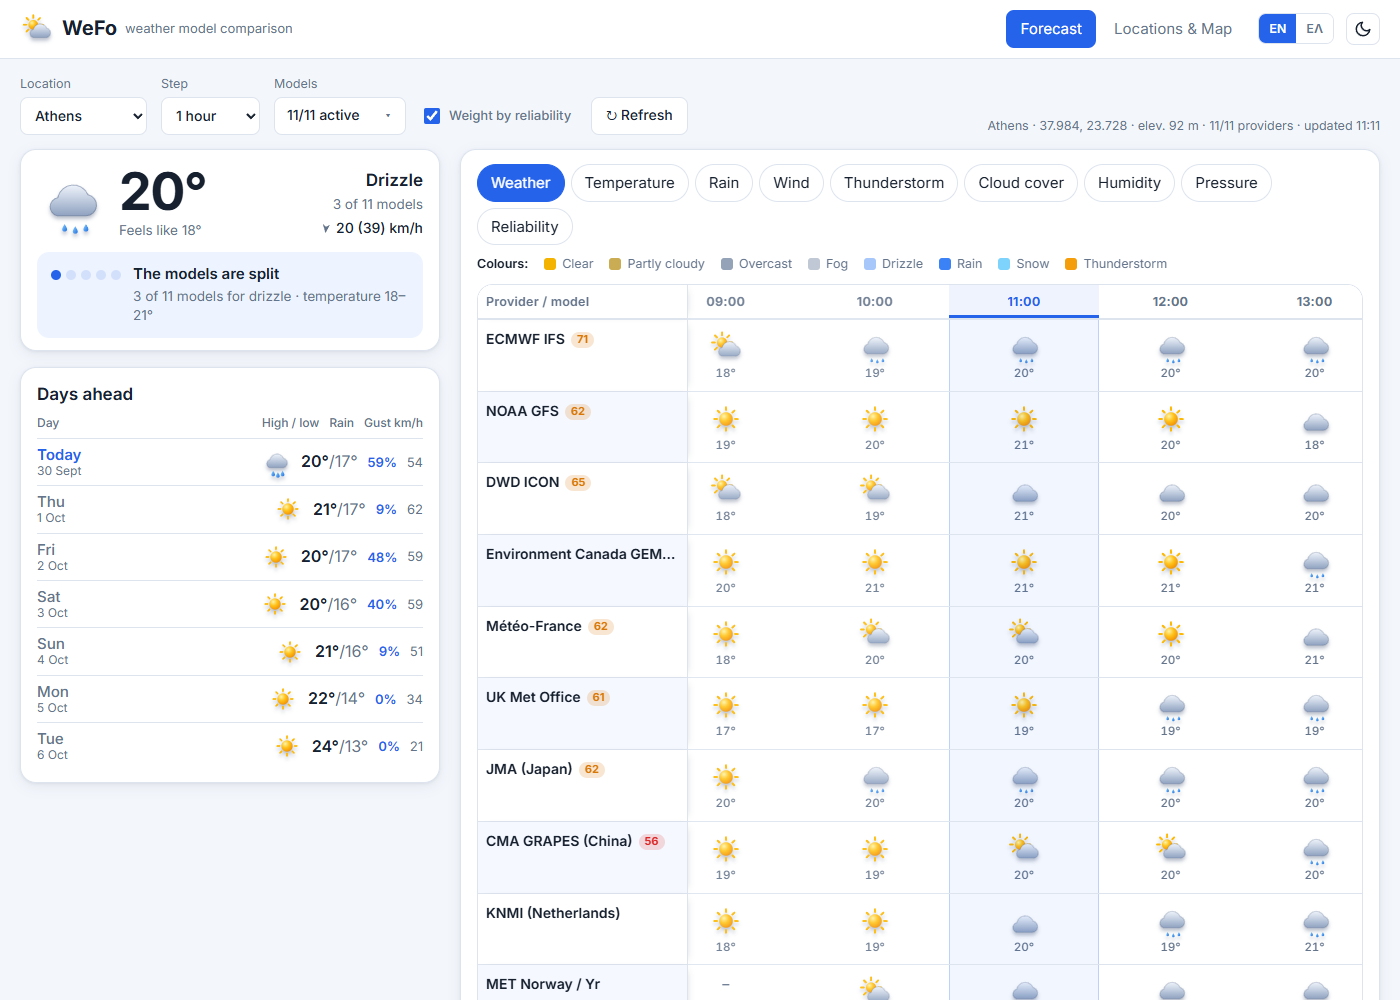
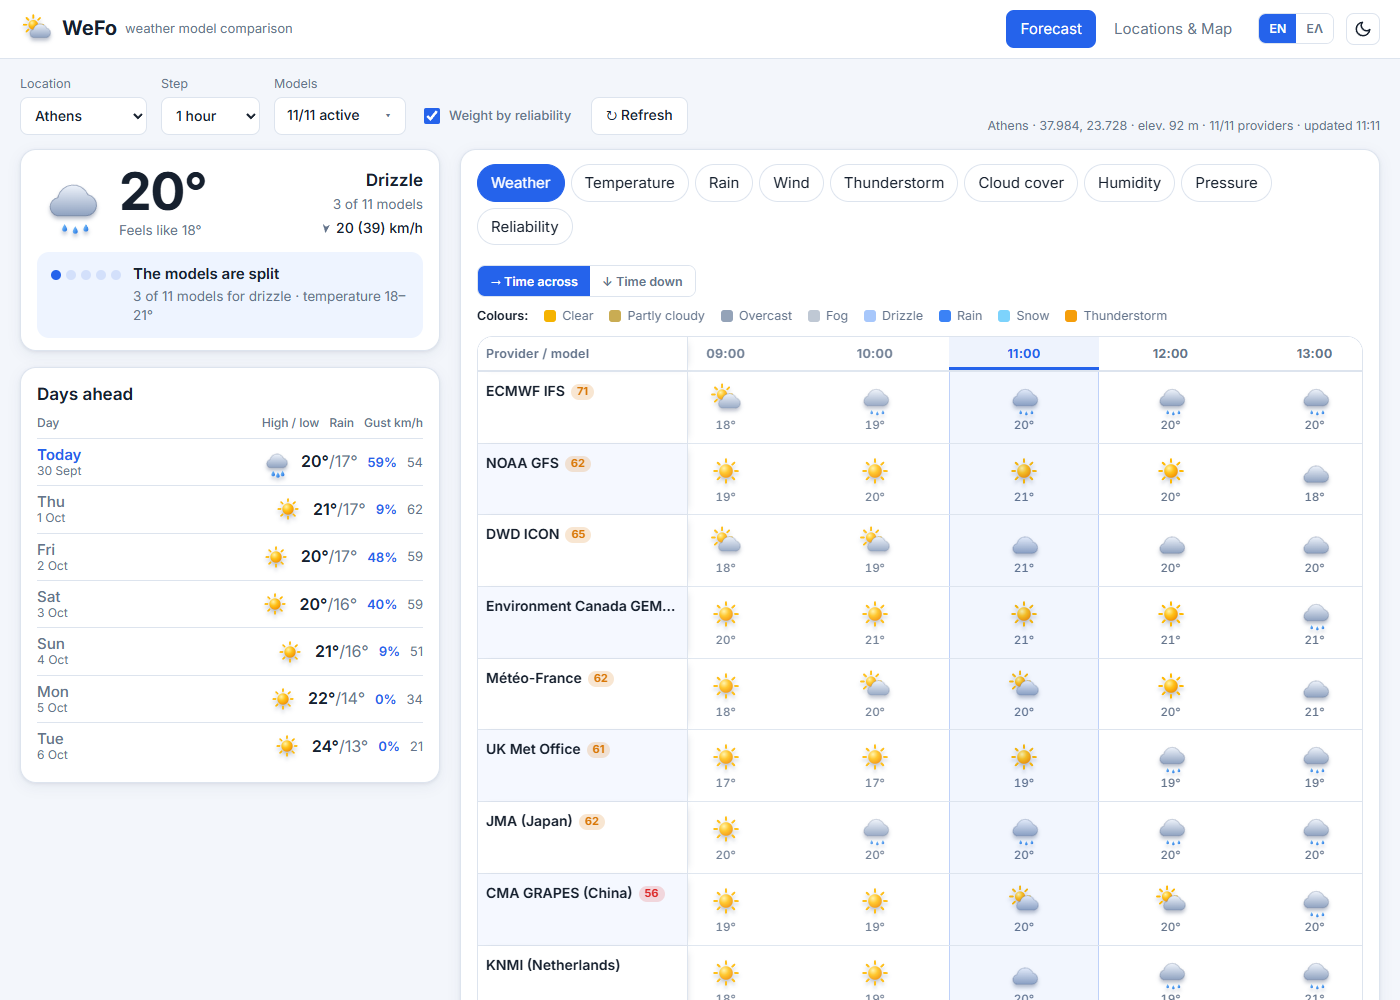
Add Time down/across table orientation toggle and consensus-first collapsible provider rows (Show all N models)

diff --git a/js/app.js b/js/app.js
@@ -15,8 +15,10 @@ async function api(path, opts) {
   return data;
 }
 
-const state = { locations: [], current: null, data: null, verify: null, weighted: true, day: 0, step: 1, param: 'weather', token: 0 };
+const state = { locations: [], current: null, data: null, verify: null, weighted: true, day: 0, step: 1, param: 'weather', token: 0, orient: 'h', modelsOpen: false };
 try { state.weighted = localStorage.getItem('wefo.weighted') !== '0'; } catch (e) { /* ignore */ }
+try { state.orient = localStorage.getItem('wefo.orient') === 'v' ? 'v' : 'h'; } catch (e) { /* ignore */ }
+try { state.modelsOpen = localStorage.getItem('wefo.modelsOpen') === '1'; } catch (e) { /* ignore */ }
 // Προτιμήσεις ανά χρήστη/browser (localStorage): μοντέλα που έχουν απενεργοποιηθεί
 state.disabled = new Set();
 try { state.disabled = new Set(JSON.parse(localStorage.getItem('wefo.disabled') || '[]')); } catch (e) { /* ignore */ }
@@ -374,27 +376,70 @@ function renderSegKey() {
   $('segKey').innerHTML = `<b>${t('lg.colours')}</b>` + cats.map((k) => `<span><i class="c-${k}"></i>${t('cat.' + k)}</span>`).join('');
 }
 
-function renderGrid() {
-  const { data, param } = state;
-  $('relNote').hidden = param !== 'reliability';
-  renderSegKey();
-  if (param === 'reliability') return renderReliability();
-  const cols = columns();
-  const { rows, summary, prob, summaryLabel, probLabel, extraRows } = buildRows(param, cols);
+/* "Time down": one row per hour, showing just the consensus (average + probability) for the current
+   tab — transposed from the usual "time across" table. Individual providers don't fit as columns here,
+   so this view is always the compact, consensus-only one (see "Show all N models" for the per-provider
+   breakdown, which stays in "time across" mode). */
+function renderGridVertical(cols, built) {
+  const { summary, prob, summaryLabel, probLabel } = built;
   const cls = (c) => `${c.past ? 'past' : ''}${c.now ? ' now' : ''}`;
-  const rowHtml = (r, extraCls = '') => `<tr class="${extraCls}"><th class="rowh">${esc(r.name)}${badge(r.id)}</th>${r.cells.map((c, i) => `<td class="${c.cls || ''} ${cls(cols[i])}" style="background:${c.bg || ''}">${c.html}</td>`).join('')}</tr>`;
-  let html = `<thead><tr><th class="rowh">${t('g.provider')}</th>${cols.map((c) => `<th class="${cls(c)}">${c.label}</th>`).join('')}</tr></thead><tbody>`;
-  rows.forEach((r) => { html += rowHtml(r); });
-  html += `<tr class="summary"><th class="rowh">${summaryLabel}</th>${summary.map((c, i) => `<td class="${cls(cols[i])}" style="background:${c.bg || ''}">${c.html}</td>`).join('')}</tr>`;
-  html += `<tr class="prob"><th class="rowh">${probLabel}</th>${prob.map((c, i) => `<td class="${cls(cols[i])}" style="background:${c.bg || ''}">${c.html}</td>`).join('')}</tr>`;
-  if (extraRows && extraRows.length) { html += extraRows.map((r) => rowHtml(r, 'ai')).join(''); }
+  let html = `<thead><tr><th class="rowh">${t('g.time')}</th><th>${summaryLabel}</th><th>${probLabel}</th></tr></thead><tbody>`;
+  cols.forEach((c, i) => {
+    html += `<tr class="${cls(c)}"><th class="rowh">${c.label}</th><td style="background:${summary[i].bg || ''}">${summary[i].html}</td><td style="background:${prob[i].bg || ''}">${prob[i].html}</td></tr>`;
+  });
   html += '</tbody>';
   $('grid').innerHTML = html;
-  centerNow();
-  requestAnimationFrame(() => requestAnimationFrame(centerNow));
+  const nowRow = document.querySelector('#grid tbody tr.now');
+  if (nowRow) nowRow.scrollIntoView({ block: 'center' });
+}
+
+function renderGrid() {
+  const { param } = state;
+  const notReliability = param !== 'reliability';
+  $('relNote').hidden = param !== 'reliability';
+  $('orientSeg').hidden = !notReliability;
+  renderSegKey();
+  if (param === 'reliability') { $('modelsToggle').hidden = true; return renderReliability(); }
+  const cols = columns();
+  const built = buildRows(param, cols);
+  const { rows, summary, prob, summaryLabel, probLabel, extraRows } = built;
+
+  if (state.orient === 'v') {
+    $('modelsToggle').hidden = true;
+    renderGridVertical(cols, built);
+  } else {
+    const cls = (c) => `${c.past ? 'past' : ''}${c.now ? ' now' : ''}`;
+    const rowHtml = (r, extraCls = '') => `<tr class="${extraCls}"><th class="rowh">${esc(r.name)}${badge(r.id)}</th>${r.cells.map((c, i) => `<td class="${c.cls || ''} ${cls(cols[i])}" style="background:${c.bg || ''}">${c.html}</td>`).join('')}</tr>`;
+    let html = `<thead><tr><th class="rowh">${t('g.provider')}</th>${cols.map((c) => `<th class="${cls(c)}">${c.label}</th>`).join('')}</tr></thead><tbody>`;
+    // Consensus-first: the individual provider rows are collapsed by default, behind "Show all N models"
+    if (state.modelsOpen) rows.forEach((r) => { html += rowHtml(r); });
+    html += `<tr class="summary"><th class="rowh">${summaryLabel}</th>${summary.map((c, i) => `<td class="${cls(cols[i])}" style="background:${c.bg || ''}">${c.html}</td>`).join('')}</tr>`;
+    html += `<tr class="prob"><th class="rowh">${probLabel}</th>${prob.map((c, i) => `<td class="${cls(cols[i])}" style="background:${c.bg || ''}">${c.html}</td>`).join('')}</tr>`;
+    if (extraRows && extraRows.length) { html += extraRows.map((r) => rowHtml(r, 'ai')).join(''); }
+    html += '</tbody>';
+    $('grid').innerHTML = html;
+    centerNow();
+    requestAnimationFrame(() => requestAnimationFrame(centerNow));
+    $('modelsToggle').hidden = false;
+    $('modelsToggle').textContent = state.modelsOpen ? t('m.hideall') : t('m.showall', { n: rows.length });
+  }
   const compareNote = extraRows && extraRows.length ? t('lg.compare') : '';
   $('legend').textContent = t('lg.' + param, { thr: param === 'precip' ? RAIN_THR : WIND_THR }) + t('lg.providers', { n: rows.length }) + (weightsOn() ? t('lg.weighted') : '') + compareNote;
 }
+$('modelsToggle').addEventListener('click', () => {
+  state.modelsOpen = !state.modelsOpen;
+  try { localStorage.setItem('wefo.modelsOpen', state.modelsOpen ? '1' : '0'); } catch (e) { /* ignore */ }
+  renderGrid();
+});
+document.querySelectorAll('#orientSeg [data-orient]').forEach((b) => {
+  b.classList.toggle('active', b.dataset.orient === state.orient);
+  b.addEventListener('click', () => {
+    state.orient = b.dataset.orient;
+    try { localStorage.setItem('wefo.orient', state.orient); } catch (e) { /* ignore */ }
+    document.querySelectorAll('#orientSeg [data-orient]').forEach((x) => x.classList.toggle('active', x === b));
+    renderGrid();
+  });
+});
 
 /* ================= Ημέρες & καρτέλες ================= */
 function dayCategory(codes) {

diff --git a/js/i18n.js b/js/i18n.js
@@ -69,7 +69,8 @@ const I18N = {
     'lg.weighted': ' The last row is weighted by each model\'s reliability (see the Reliability tab).',
     'lg.compare': ' The rows right after it (marked AI) show the flagship single-model AI forecasts — ECMWF AIFS and, when configured, Google WeatherNext 3 — on their own, for direct comparison with the weighted result above.',
 
-    'g.provider': 'Provider / model', 'g.temp_avg': 'Temperature (avg)', 'g.prob_weather': 'Most likely weather',
+    'g.provider': 'Provider / model', 'g.time': 'Time', 'g.temp_avg': 'Temperature (avg)', 'g.prob_weather': 'Most likely weather',
+    'orient.h': '→ Time across', 'orient.v': '↓ Time down',
     'g.avg_mm': 'Average (mm)', 'g.upto': 'up to {v}', 'g.prob_rain': 'Chance of rain',
     'g.avg_kmh': 'Average (km/h)', 'g.prob_wind': 'Chance of strong wind (≥{v})', 'g.gusts': 'gusts ≥60: {v}%',
     'g.storm_yes': 'storm', 'g.storm_maybe': 'possible', 'g.storm_no': 'no',
@@ -89,6 +90,7 @@ const I18N = {
     'vf.loading': '· loading reliability…', 'vf.unavail': '· unavailable',
 
     'm.active': '{a}/{n} active', 'm.dup': 'Same data as {n} (outside its coverage) – not counted twice',
+    'm.showall': 'Show all {n} models', 'm.hideall': 'Hide individual models',
     'm.missing': 'No coverage for this location', 'm.all': 'Enable all',
     'mn.jma_seamless': 'JMA (Japan)', 'mn.cma_grapes_global': 'CMA GRAPES (China)', 'mn.bom_access_global': 'BOM ACCESS (Australia)',
     'mn.knmi_seamless': 'KNMI (Netherlands)', 'mn.dmi_seamless': 'DMI (Denmark)', 'mn.metno_seamless': 'MET Norway (Nordic)',
@@ -195,7 +197,8 @@ const I18N = {
     'lg.weighted': ' Η τελευταία γραμμή στηρίζεται σε στάθμιση με την αξιοπιστία κάθε μοντέλου (καρτέλα Αξιοπιστία).',
     'lg.compare': ' Οι γραμμές αμέσως μετά (με ένδειξη AI) δείχνουν τις κορυφαίες προβλέψεις μεμονωμένων μοντέλων AI — ECMWF AIFS και, όταν είναι ρυθμισμένο, Google WeatherNext 3 — ξεχωριστά, για άμεση σύγκριση με το παραπάνω σταθμισμένο αποτέλεσμα.',
 
-    'g.provider': 'Πάροχος / μοντέλο', 'g.temp_avg': 'Θερμοκρασία (μ.ο.)', 'g.prob_weather': 'Πιθανότερος καιρός',
+    'g.provider': 'Πάροχος / μοντέλο', 'g.time': 'Ώρα', 'g.temp_avg': 'Θερμοκρασία (μ.ο.)', 'g.prob_weather': 'Πιθανότερος καιρός',
+    'orient.h': '→ Ώρες σε στήλες', 'orient.v': '↓ Ώρες σε γραμμές',
     'g.avg_mm': 'Μέσος όρος (mm)', 'g.upto': 'έως {v}', 'g.prob_rain': 'Πιθανότητα βροχής',
     'g.avg_kmh': 'Μέσος όρος (km/h)', 'g.prob_wind': 'Πιθανότητα ισχυρού ανέμου (≥{v})', 'g.gusts': 'ριπές ≥60: {v}%',
     'g.storm_yes': 'καταιγίδα', 'g.storm_maybe': 'πιθανή', 'g.storm_no': 'όχι',
@@ -215,6 +218,7 @@ const I18N = {
     'vf.loading': '· φόρτωση αξιοπιστίας…', 'vf.unavail': '· μη διαθέσιμη',
 
     'm.active': '{a}/{n} ενεργά', 'm.dup': 'Ίδια δεδομένα με {n} (εκτός περιοχής κάλυψης) – δεν μετράει διπλά',
+    'm.showall': 'Εμφάνιση όλων ({n} μοντέλα)', 'm.hideall': 'Απόκρυψη μεμονωμένων μοντέλων',
     'm.missing': 'Χωρίς κάλυψη για αυτή την τοποθεσία', 'm.all': 'Ενεργοποίηση όλων',
     'mn.jma_seamless': 'JMA (Ιαπωνία)', 'mn.cma_grapes_global': 'CMA GRAPES (Κίνα)', 'mn.bom_access_global': 'BOM ACCESS (Αυστραλία)',
     'mn.knmi_seamless': 'KNMI (Ολλανδία)', 'mn.dmi_seamless': 'DMI (Δανία)', 'mn.metno_seamless': 'MET Norway (Nordic)',

diff --git a/index.html b/index.html
@@ -9,7 +9,7 @@
 <link rel="preconnect" href="https://fonts.googleapis.com"><link rel="preconnect" href="https://fonts.gstatic.com" crossorigin>
 <link rel="stylesheet" href="https://fonts.googleapis.com/css2?family=Inter:wght@400;500;600;700&display=swap&subset=greek">
 <link rel="stylesheet" href="https://unpkg.com/leaflet@1.9.4/dist/leaflet.css">
-<link rel="stylesheet" href="css/style.css?v=20261024">
+<link rel="stylesheet" href="css/style.css?v=20261025">
 </head>
 <body>
 <header class="topbar">
@@ -74,10 +74,17 @@
           </section>
         </div>
         <section class="hours card">
-          <div id="tabs" class="tabs"></div>
+          <div class="hours-h">
+            <div id="tabs" class="tabs"></div>
+            <div class="seg" id="orientSeg" role="group" aria-label="Table orientation">
+              <button type="button" data-orient="h" data-i18n="orient.h">→ Time across</button>
+              <button type="button" data-orient="v" data-i18n="orient.v">↓ Time down</button>
+            </div>
+          </div>
           <div id="segKey" class="segkey" hidden></div>
           <div id="relNote" class="relnote" hidden></div>
           <div class="table-wrap"><table id="grid" class="grid"></table></div>
+          <button id="modelsToggle" class="btn ghost small toggle" type="button" hidden></button>
           <div id="legend" class="legend"></div>
         </section>
       </div>
@@ -123,8 +130,8 @@
 <footer data-i18n-html="footer.html"></footer>
 
 <script src="https://unpkg.com/leaflet@1.9.4/dist/leaflet.js"></script>
-<script src="js/i18n.js?v=20261024"></script>
-<script src="js/icons.js?v=20261024"></script>
-<script src="js/app.js?v=20261024"></script>
+<script src="js/i18n.js?v=20261025"></script>
+<script src="js/icons.js?v=20261025"></script>
+<script src="js/app.js?v=20261025"></script>
 </body>
 </html>

diff --git a/css/style.css b/css/style.css
@@ -112,6 +112,11 @@ select, input[type=text], input[type=number], input[type=search] { font: inherit
 .segkey i.c-snow { background: var(--snow); } .segkey i.c-thunder { background: var(--bolt); }
 .hours .table-wrap { box-shadow: none; }
 .hours .tabs { margin-top: 0; }
+.hours-h { display: flex; align-items: center; justify-content: space-between; gap: 10px 12px; flex-wrap: wrap; }
+.hours-h .tabs { flex: 1 1 auto; min-width: 0; margin: 0 0 10px; }
+.hours-h .seg { flex: none; margin-bottom: 10px; }
+.btn.toggle { display: block; margin: 10px auto 0; }
+@media (max-width: 700px) { .hours-h .seg { width: 100%; } .hours-h .seg button { flex: 1; } }
 
 /* Καρτέλες παραμέτρων */
 .tabs { display: flex; gap: 6px; flex-wrap: wrap; margin: 12px 0 10px; }

diff --git a/README.md b/README.md
@@ -16,9 +16,13 @@ WeFo is a small self-hosted web app that puts the forecasts of many **free** wea
 
 ## Screenshots
 
-**Forecast – weather** (one row per model, last row = most likely weather with the share of every category; the current interval is highlighted)
+**Forecast – weather** (hero card and days-ahead on the left; per-provider table expanded via "Show all models" on the right, last row = most likely weather with the share of every category; the current interval is highlighted)
 
 ![Forecast – weather](docs/screenshots/forecast-weather.png)
+
+**Time down** – the same table transposed to one row per hour (Show all models collapsed to the consensus-only view)
+
+![Time down](docs/screenshots/forecast-timedown.png)
 
 **Rain** – per-model rainfall per step, average and chance of rain
 
@@ -103,7 +107,7 @@ Choose a saved location and you get a two-column layout: a **hero card** and the
 
 1. **Hero card**: current conditions right now (icon, temperature, feels-like, wind) and a **verdict** strip — a 1–5 dot scale plus a sentence saying how much the models agree (*"The models mostly/partly agree" / "are split"*), with the temperature range behind it.
 2. **Days ahead** (7 days): one row per day with icon, high/low, chance of rain (≥ 1 mm) and peak gust; click a day to jump the table below to it.
-3. **Parameter tabs**, each showing one table – one row per provider/model, one column per time step (the Weather tab also shows a colour legend for the category icons above the table):
+3. **Parameter tabs**, each showing one table (the Weather tab also shows a colour legend for the category icons above the table). By default each table is **consensus-first**: it shows only the average/agreement rows (plus, on the Weather tab, the named AI models) – a **"Show all N models"** button reveals every individual provider's row underneath. A **→ Time across / ↓ Time down** switch transposes the table: *across* keeps time as columns with one row per provider (as below); *down* turns it into a one-row-per-hour agenda (average + probability only, better for narrow screens or scanning many hours at once).
 
    | Tab | Provider cells | Second-to-last row | **Last row (probability)** |
    |---|---|---|---|
